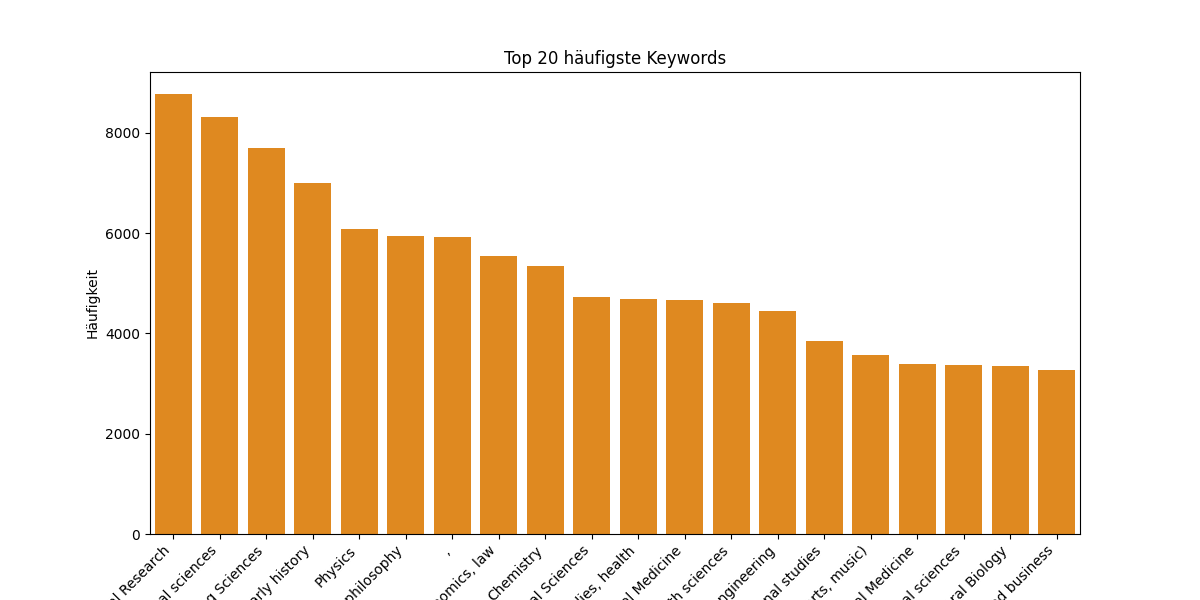
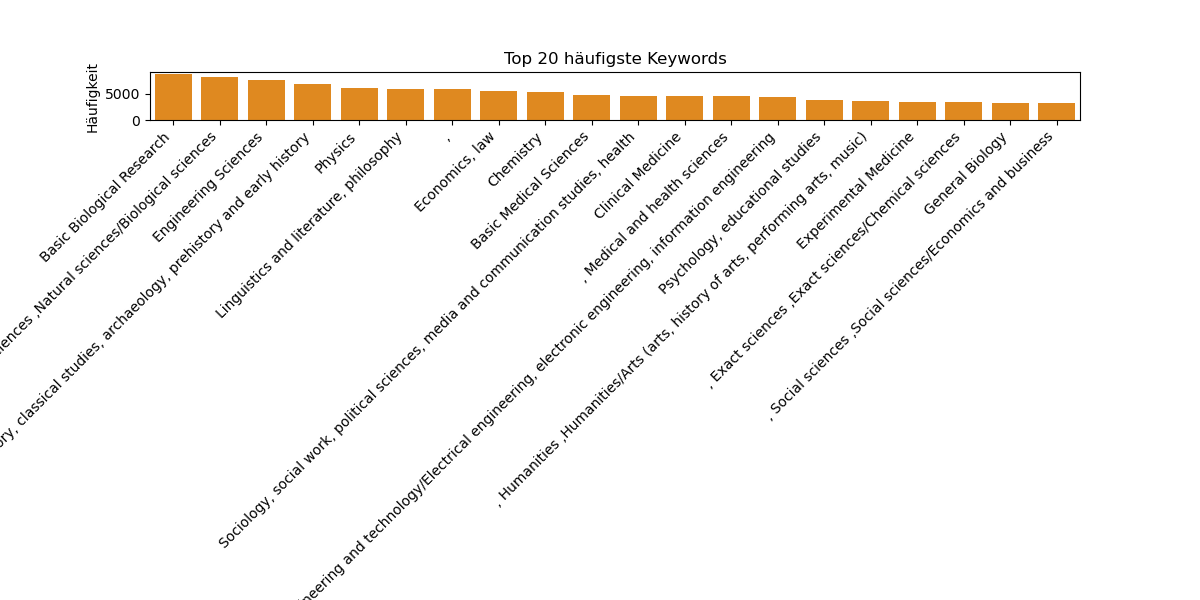
fixed data exploration

diff --git a/src/data_exploration.py b/src/data_exploration.py
@@ -122,11 +122,16 @@ for _ in tqdm(range(1), desc="Erstelle Diagramme für CallIdentifiers und Keywor
     plt.xlabel('Keywords')
     plt.ylabel('Häufigkeit')
     plt.xticks(rotation=45, ha='right')  # X-Achsen-Beschriftung rotieren
+
+    # Platz unten erhöhen für besser sichtbare X-Achsen-Beschriftung
+    plt.subplots_adjust(bottom=0.8)
+
     plt.tight_layout()
 
     # 'keywords' Plot speichern
     plt.savefig(os.path.join(output_folder, 'keywords_top_20.png'))
     plt.close()
+
 
 # Zeitliche Analyse: Start- und Enddatum der Projekte
 # Zunächst die Spalten in Datetime konvertieren

diff --git a/src/json_to_csv.py b/src/json_to_csv.py
@@ -10,8 +10,8 @@ from tqdm import tqdm  # Importiere die tqdm-Bibliothek
 
 
 # Verzeichnis für Originaldaten und Zielordner für CSV-Dateien
-original_data_dir = 'data\\cleaned_projects_data_april2025'
-output_dir = 'data\\projects_data_csv'
+original_data_dir = "data\cleaned_projects_data_april2025"
+output_dir = 'data\projects_data_csv'
 
 # Sicherheitsfunktion für den Umgang mit 'None'-Werten
 def safe(value):
